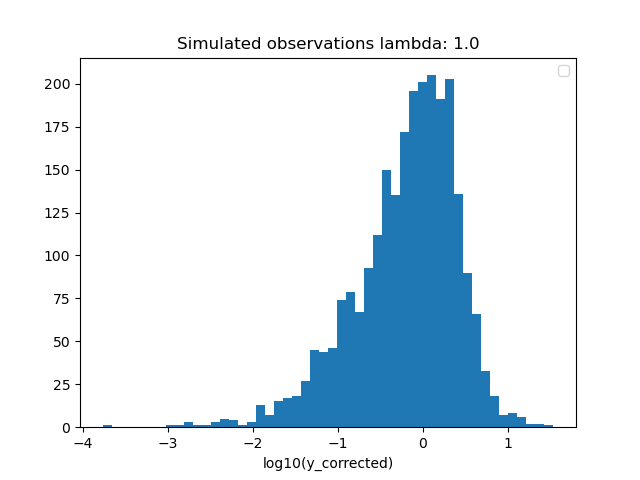
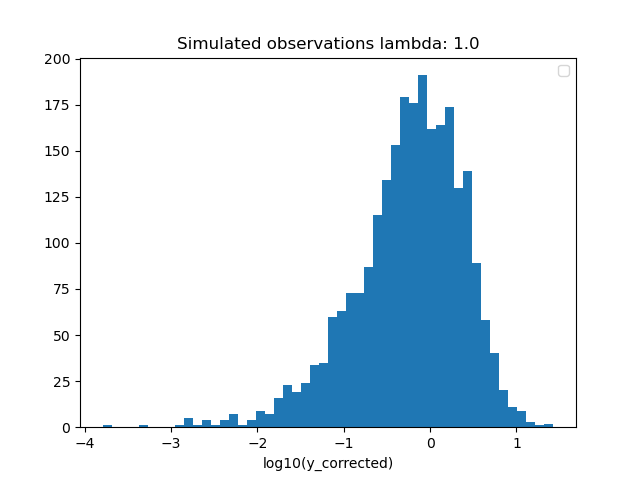
Corrected reading in of matrix. Corrected plots with hfun accordingly.

diff --git a/code/readin.py b/code/readin.py
@@ -6,53 +6,7 @@ import datetime
 import constants as cst
 
 MATRIX_LOCATION = "./../data/srs_csv_files/"
-# #TODO: figure out these parameters from the files themselves?
-# LIMIT_BACKWARD_TIME = 15
-# N_SOURCES = 200
-# N_DETECTIONS = 4636
-# #allowing us to use values for 1 entire year
-# N_COLS=365+LIMIT_BACKWARD_TIME
-
-
-# scalings=pandas.read_csv("./../data/scalings.csv", header=None)
-# sources=pandas.read_csv("./../data/data_xe133_NH_yearly.csv")#has a header file, not that we actually need it
-#
-# print(scalings)
-# print(sources)
-#
-# np_scalings=scalings[0].to_numpy()
-# np_sources=sources['emission'].to_numpy()*1000#emission in mBq instead of Bq
-# # print(np_sources.size)
-# # print(np_sources.shape)
-# #rescaling sources
-# # print("scalings: ", np_scalings)
-# # print("before dividing: ", np_sources)
-# np_sources=np_sources/np_scalings
-# # print("after dividing:", np_sources)
-# #np.divide(np_sources,np_scalings)
-#
-#
-# # print(np_scalings.size)
-# # print(np_scalings.shape)
-# # print("np sources: ", np_sources.size)
-#
-# n_datafiles=0
-# for file in os.listdir(MATRIX_LOCATION):
-#     if file.endswith(".csv"):
-#         n_datafiles+=1
-# results=np.zeros(n_datafiles)
-# print(results)
-
-
-
-
-#TODO figure out whether this thing needs to be sparse
-#probably
-# def fill_matrix(y, index, ):
-    # row =
-    # col =
-    # data =
-#or just construct from standard numpy array...
+#Note: the relative paths for the data are currently hardcoded.
 
 def import_scalings():
     scalings=pandas.read_csv("./../data/scalings.csv", header=None)
@@ -67,68 +21,58 @@ def import_sources():
 def import_scaled_sources():
     return import_sources()/import_scalings()
 
-# index=0
-
-# #timesteps times number of emissions
-# nb_data_cols=np.size(np_sources)
-# print(nb_data_cols)
-
-# combined_dataframe=pandas.DataFrame()
-
 #first check all files for ordering, then combine all matrices
 #but we might just limit the max amount of days to get a grasp on the problem
 def import_combined_matrix():
     measurements_dict = {};
     giant_matrix = np.zeros((cst.N_DETECTIONS, cst.N_SOURCES*cst.N_COLS))
+    #read in all csv files into the dictionary
     for file in os.listdir(MATRIX_LOCATION):
         if file.endswith(".csv"):
             matrix_file = pandas.read_csv(os.path.join(MATRIX_LOCATION, file), header=None)
             np_matrix = matrix_file.to_numpy()
             #prune extension from filename
+            #filename is assumed to have the following format: "measurementstation"_"date:YYYYMMDD"_"time:HHMMSS".csv
             pruned_name = file.split('.')[0]
             split_name = pruned_name.split('_')
-            # print(split_name)
             location = split_name[0]
             date = split_name[1]
             time = split_name[2]
 
-            #consistent index, starting at zero
-            # dayofyear = datetime.datetime.strptime(date, '%Y%m%d').timetuple().tm_yday - 1
-            # print(dayofyear)
-
-            # print("matrix: ", np_matrix.shape)
             measurements_dict.update({pruned_name:{"location": location, "date": date, "time": time, "matrix": np_matrix}})
 
+    #sort the dictionary, such that it is sorted on date, subsorted on measurement location and then subsorted on time of measurement
     timesort_dict = dict(sorted(measurements_dict.items(), key = lambda item: item[1]["time"]))
     locationsort_dict = dict(sorted(timesort_dict.items(), key = lambda item: item[1]["location"]))
     datesort_dict = dict(sorted(locationsort_dict.items(), key = lambda item: item[1]["date"]))
     index = 0
-    for (dictel, val) in datesort_dict.items(): # dict(sorted(measurements_dict.items(), key=lambda item: item["date"])):
-        # print(dictel)
-        np_matrix = val["matrix"]
+    for (dictel, val) in datesort_dict.items():
+        #LIMITATION: this- part assumes that the data is only from a single year. In order to extend this, a final date must be given instead.
 
-
-        #setting up some larger matrix for eventually filling in the combined matrix
-        largermat=np.zeros((cst.N_SOURCES, cst.N_COLS))
+        #extract the nth day of the year from the date
         date_name = val["date"]
+        #but we do subtract 1, as we want to start counting from 0
         dayofyear = datetime.datetime.strptime(date_name, '%Y%m%d').timetuple().tm_yday - 1
         date = dayofyear
 
-        #in order to get a grasp on the general matrix
+        #in order to get a grasp on the general matrix, we can limit the number of days we use
+        #LIMITATION: for now, only the maximal date is constrained; one might also want to constrain the minimal date
         if date<=cst.MAX_DATE:
+            #extract the numpy matrix, in order to further manipulate it to place into the large matrix
+            np_matrix = val["matrix"]
 
-            # and putting it in in the correct place?
-            largermat[:, date:date+cst.LIMIT_BACKWARD_TIME]=np_matrix
-            # print(largermat.shape)
-            #flatten the larger matrix
+            #setting up some larger matrix for eventually filling in the combined matrix
+            largermat=np.zeros((cst.N_SOURCES, cst.N_COLS))
+            #putting the numpy matrix on the correct place, shifted by the date
+            # largermat[:, date:date+cst.LIMIT_BACKWARD_TIME]=np_matrix
+            # print(cst.MAX_DATE-date-cst.LIMIT_BACKWARD_TIME)
+            # print(cst.LIMIT_BACKWARD_TIME-date)
+            largermat[:, (cst.MAX_DATE-date):(cst.MAX_DATE-date+cst.LIMIT_BACKWARD_TIME)]=np_matrix
+            #flatten the larger matrix in order to place all consecutive rows after each other
             flatmat=largermat.flatten()
-            # print(flatmat.shape)
 
-            #and put it into a giant matrix
+            #This flat matrix becomes a new row of the larger matrix
             giant_matrix[index, :]=flatmat
-            #hmm, did I correctly treat observations on the same day; probably yes, as the observation will be put on another row
-
-            # print(flatmat)
             index+=1
 
     return giant_matrix
@@ -142,120 +86,3 @@ def prune_matrix(matrix):
 #only keep negative row from the matrix
 def negative_rows_of(matrix):
     return matrix[matrix.min(axis=1)<0.0]
-
-# def nonzero_rows_of(matrix):
-#     print("nb zero rows: ", matrix[(matrix.max(axis=1)==0.0) & (matrix.min(axis=1)==0.0)].shape)
-#     print("matrix shape: ", matrix.shape)
-#     print("returned matrix shape: ", matrix[(matrix.max(axis=1)>0.0) | (matrix.min(axis=1)<0.0)].shape)
-#     return matrix[(matrix.max(axis=1)>0.0) | (matrix.min(axis=1)<0.0)]
-
-# for file in os.listdir(MATRIX_LOCATION):
-#     if file.endswith(".csv"):
-#         matrix_file = pandas.read_csv(os.path.join(MATRIX_LOCATION, file), header=None)
-#         np_matrix = matrix_file.to_numpy()
-#         #prune extension from filename
-#         pruned_name = file.split('.')[0]
-#         split_name = pruned_name.split('_')
-#         # print(split_name)
-#         location = split_name[0]
-#         date = split_name[1]
-#         time = split_name[2]
-#
-#         #consistent index, starting at zero
-#         dayofyear = datetime.datetime.strptime(date, '%Y%m%d').timetuple().tm_yday - 1
-#         # print(dayofyear)
-#
-#         # print("matrix: ", np_matrix.shape)
-#         measurements_dict.update({pruned_name:{"location": location, "date": date, "time": time, "matrix": np_matrix}})
-#
-# timesort_dict = dict(sorted(measurements_dict.items(), key = lambda item: item[1]["time"]))
-# locationsort_dict = dict(sorted(timesort_dict.items(), key = lambda item: item[1]["location"]))
-# datesort_dict = dict(sorted(locationsort_dict.items(), key = lambda item: item[1]["date"]))
-# # print(locationsort_dict)
-#
-# index = 0
-# for (dictel, val) in datesort_dict.items(): # dict(sorted(measurements_dict.items(), key=lambda item: item["date"])):
-#     print(dictel)
-#     # print(val["location"])
-#
-#     np_matrix = val["matrix"]
-#     #checking whether everything sums to 1 (or something negative)
-#     # print(np.matmul(np_matrix.T, np_sources))
-#     result=np.sum(np.matmul(np_matrix.T, np_sources))
-#     # print()
-#     results[index]=result
-#
-#     #setting up some larger matrix for eventually filling in the combined matrix
-#     largermat=np.zeros((N_SOURCES, N_COLS))
-#     #flatten the transposed matrix
-#
-#     date=dayofyear
-#
-#     #and putting it in in the correct place?
-#     largermat[:, date:date+LIMIT_BACKWARD_TIME]=np_matrix
-#     print(largermat.shape)
-#     flatmat=largermat.flatten()
-#     print(flatmat.shape)
-#
-#     #and put it into a giant matrix
-#     giant_matrix[index, :]=flatmat
-#     #hmm, did I correctly treat observations on the same day; probably yes, as the observation will be put on another row
-#
-#     # print(flatmat)
-#
-#     index+=1
-#     # print(os.path.join(MATRIX_LOCATION, file))
-#     # print(matrix_file)
-
-# print("size giant matrix: ", giant_matrix.shape)
-# # print("giant matrix: ", giant_matrix)
-# #we do not actually want to deal with the negative values, nor with rows of only zeros (as some gap in the data exists temporally)
-# pruned_giant_matrix = giant_matrix[(giant_matrix.min(axis=1)>=0.0) & (giant_matrix.max(axis=1)>0.0)]
-# print("size pruned matrix: ", pruned_giant_matrix.shape)
-# print("nb cols pruned matrix: ", pruned_giant_matrix.shape[0])
-# print("nb zero cols pruned matrix: ", pruned_giant_matrix[:, (pruned_giant_matrix.max(axis=0)==0.0)].shape)
-# #also stripping away all zero columns?, as they cannot be computed
-# #FIXME: add some way of mapping these indicies to the original indices
-# # pruned_giant_matrix = pruned_giant_matrix[:, (pruned_giant_matrix.max(axis=0)>0.0)]
-# nb_rows_pruned_matrix = pruned_giant_matrix.shape[0]
-# nb_cols_pruned_matrix = pruned_giant_matrix.shape[1]
-# print("nb cols pruned matrix: ", nb_cols_pruned_matrix)
-# _, singular_values, _ =np.linalg.svd(pruned_giant_matrix)
-# print
-#
-# #TODO: prune zero columns?, as these cannot be determineds
-# print(scalings)
-# print(sources)
-#
-#
-#
-# # def ln_y_squared(xval_array):
-# #     lny = np.log(pruned_giant_matrix @ xval_array)
-# #     return lny.T @ lny
-# #
-# # def cost_function(W, lambd):
-# #     # TODO: use W instead of xval_array; hint: reconstruct xvalues using this W (just kron as below)
-# #     lny = np.log(pruned_giant_matrix @ xval_array)
-# #     regularization = lambd * np.log(weigths)
-# #     return 1.0/2.0*(lny.T @ lny +regularization.T @ regularization)
-#
-# plt.hist(np.log10(results), bins=50)
-# plt.xlabel("log10(y_sim)")
-# plt.legend()
-# plt.title("Simulated observations")
-# # plt.show()
-#
-# print(ln_y_squared(np.ones((nb_cols_pruned_matrix,1))))
-#
-# #just least squares without any constraints
-# # print(np.ones((nb_cols_pruned_matrix,1)).shape)
-# solx=np.linalg.lstsq(pruned_giant_matrix, np.ones((nb_rows_pruned_matrix,1)))[0]
-# print(solx)
-# plt.figure(1)
-# plt.plot(solx[:,0])
-# plt.show()
-#
-# #initial guess is evidently the starting data for x
-# #only this gradient thing requires way too much memory, so a sparse method is required
-# solx = opt.minimize(ln_y_squared, np.kron(np_sources, np.ones((N_COLS,1))), method='CG' )
-# print("Found solution: ", solx)
